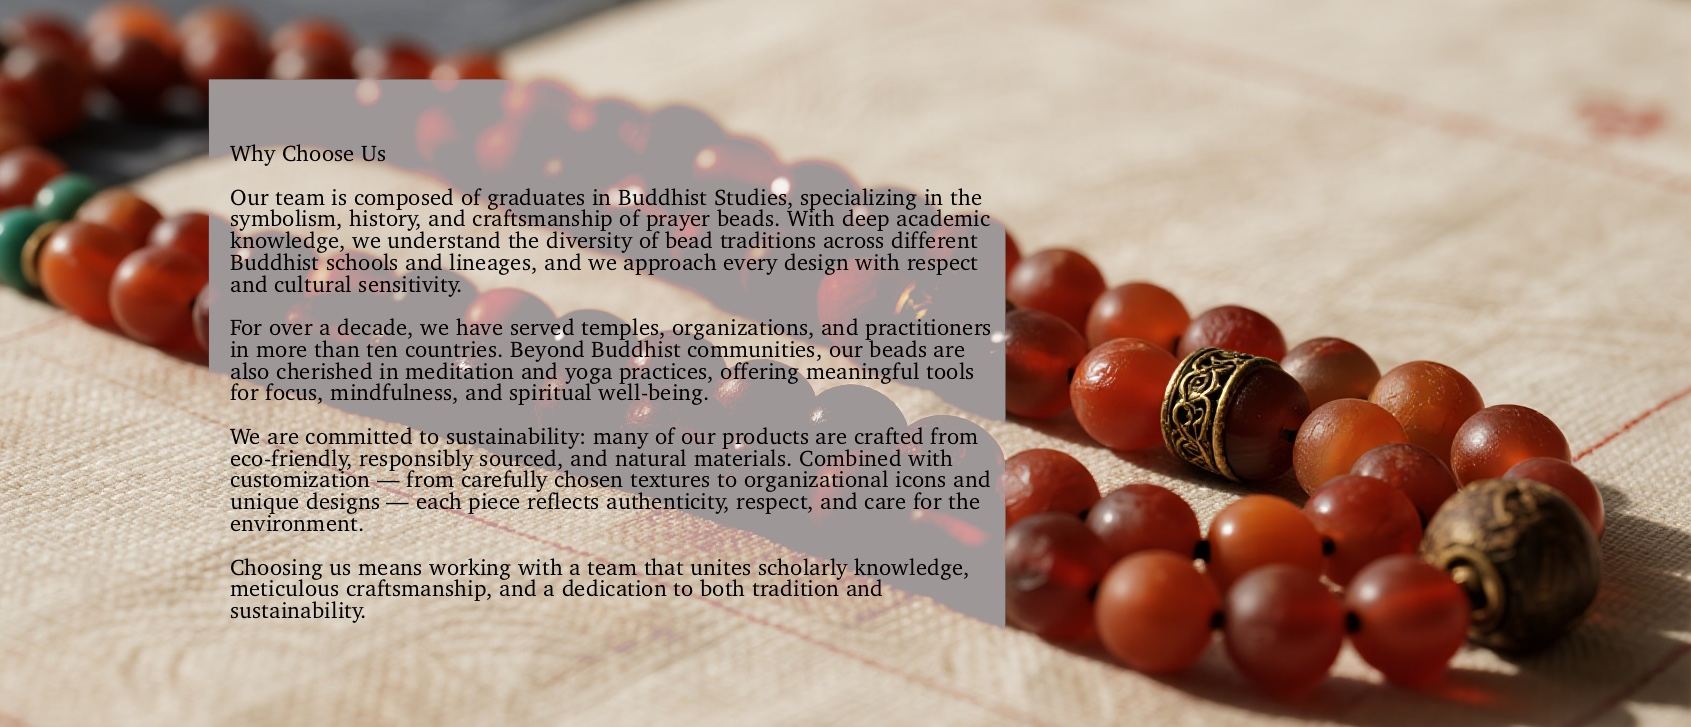
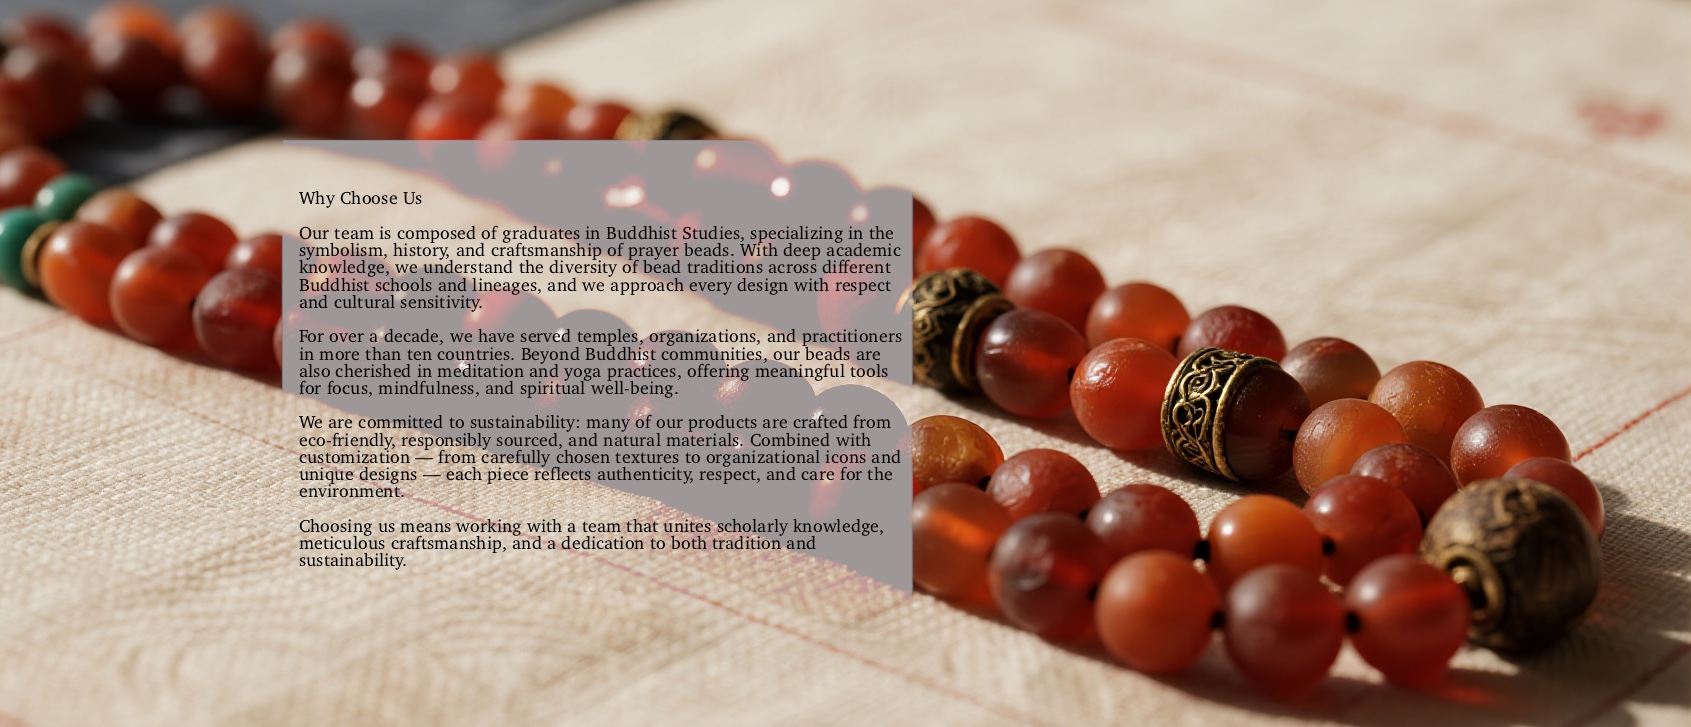
1

Changed region(s): [[0.123, 0.0908, 0.615, 0.8776]]

diff --git a/styles.css b/styles.css
@@ -927,5 +927,5 @@ body, .container {
   background: transparent;    /* blend with page; set to #f9f9f9 if you want a bar */
   padding: 30px 20px;         /* inner spacing */
   border: 0;   
-  margin-top: -70px;               /* no border since it's not floating */
+  margin-top: -35px;               /* no border since it's not floating */
 }
